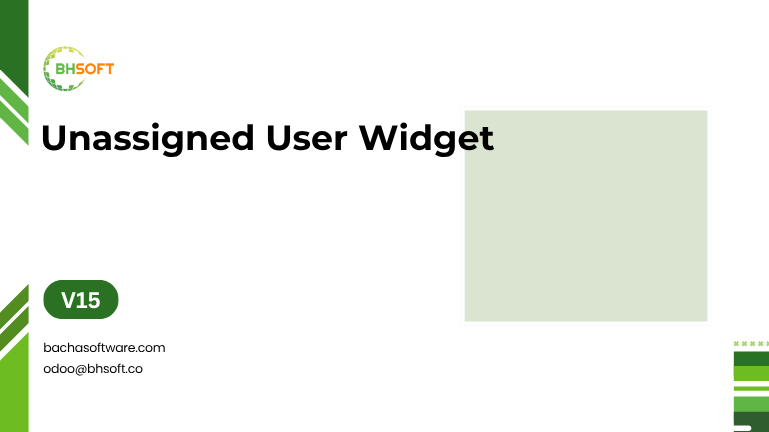
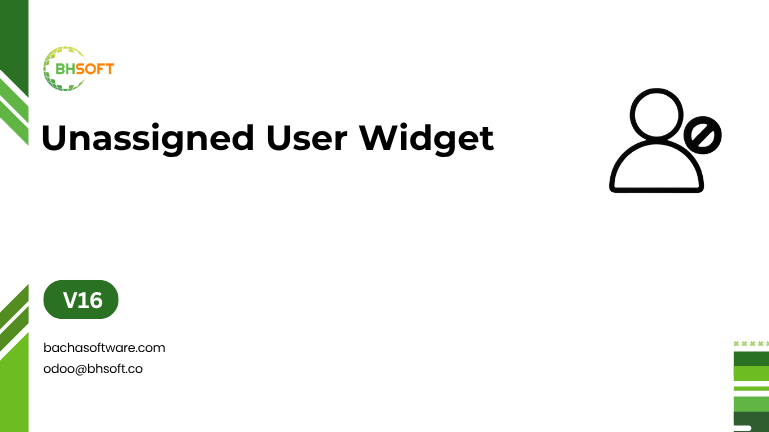
v16: update index for module

Changed region(s): [[0.593, 0.1806, 0.9363, 0.7523], [0.0624, 0.662, 0.156, 0.7222]]

diff --git a/bhs_hr_employee_move/static/description/index.html b/bhs_hr_employee_move/static/description/index.html
@@ -200,7 +200,7 @@
         </div>
         <div class="row" style="padding:0 5px;">
             <div class="col-md-4 p-2">
-                <a href="https://apps.odoo.com/apps/modules/15.0/bhs_employee_user/" target="_blank" target="_blank" style="text-decoration: none;">
+                <a href="https://apps.odoo.com/apps/modules/16.0/bhs_employee_user/" target="_blank" target="_blank" style="text-decoration: none;">
                     <div style="border-radius:12px; border: 1px solid #E5E5E5; box-shadow: 0px 1px 2px 0px #0000000D; overflow: hidden;">
                         <img src="./imgs/other_module/auto_create_user_from_employee.png" class="img-fluid" />
                         <h4 class="mt0 text-truncate mb-0"
@@ -211,7 +211,7 @@
                 </a>
             </div>
             <div class="col-md-4 p-2">
-                <a href="https://apps.odoo.com/apps/modules/15.0/bhs_unassign_user_task/" target="_blank" style="text-decoration: none;">
+                <a href="https://apps.odoo.com/apps/modules/16.0/bhs_unassign_user_task/" target="_blank" style="text-decoration: none;">
                     <div style="border-radius:12px; border: 1px solid #E5E5E5; box-shadow: 0px 1px 2px 0px #0000000D; overflow: hidden;">
                         <img src="./imgs/other_module/unassign_user_task.png" class="img-fluid" />
                         <h4 class="mt0 text-truncate mb-0"
